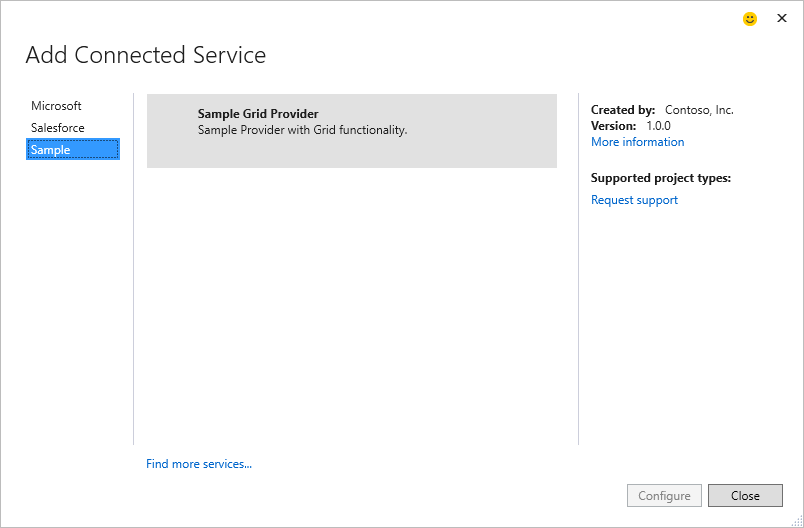
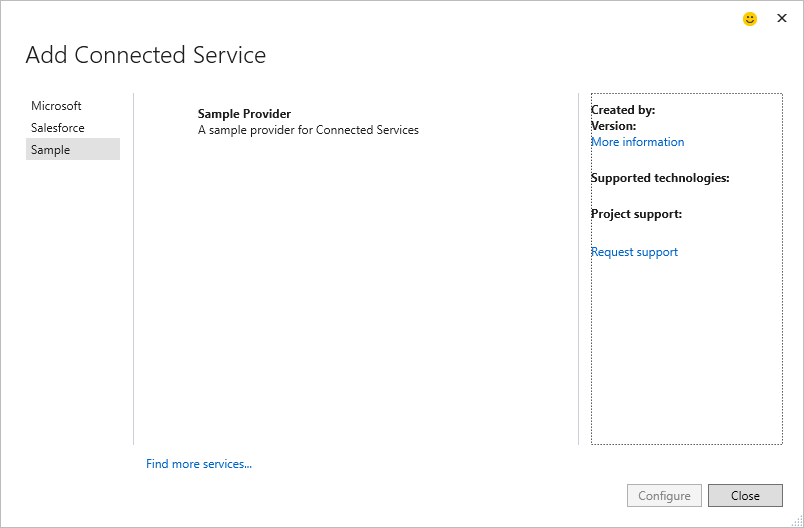
Fixed word conversion failures, updated image
Upated the povider image to refrence SinglePage instead of the old grid
example

diff --git a/SDK/articles/CreatingAConnectedServiceExtension.md b/SDK/articles/CreatingAConnectedServiceExtension.md
@@ -94,21 +94,21 @@ Add the following code
 	namespace ConnectedServiceSample
 	{
 		[ConnectedServiceProviderExport("Contoso.SampleService")]
-		internalclassProvider : ConnectedServiceProvider
+		internal class Provider : ConnectedServiceProvider
 		{
 			public Provider()
 	        {
 	            this.Category = "Sample";
-	            this.Name = "Sample Provider";
-	            this.Description = "A sample provider for Connected Services";
+	            this.Name = "Sample Connected Service";
+	            this.Description = "A sample Connected Services";
 	            this.Icon = null;
 	            this.CreatedBy = "Contoso";
-	            this.Version = newVersion(1, 0, 0);
-	            this.MoreInfoUri = newUri("https://github.com/Microsoft/ConnectedServicesSdkSamples");
+	            this.Version = new Version(1, 0, 0);
+	            this.MoreInfoUri = newUri("https://aka.ms/ConnectedServicesSDK");
 	        }
-	        publicoverrideTask<ConnectedServiceConfigurator> CreateConfiguratorAsync(ConnectedServiceProviderContext context)
+	        public override Task<ConnectedServiceConfigurator> CreateConfiguratorAsync(ConnectedServiceProviderContext context)
 	        {
-	            returnnull;
+	            return null;
 	        }
 	    }
 	}
@@ -151,7 +151,7 @@ Stop debugging, and add a new class named **Handler** to the root of your projec
 		AppliesTo = "CSharp+Web")]
 		internalclassHandler : ConnectedServiceHandler
 		{
-			publicoverrideTask<AddServiceInstanceResult> AddServiceInstanceAsync(ConnectedServiceHandlerContext context, CancellationToken ct)
+			public override Task<AddServiceInstanceResult> AddServiceInstanceAsync(ConnectedServiceHandlerContext context, CancellationToken ct)
 			{
 				AddServiceInstanceResult result = newAddServiceInstanceResult(
 					"Sample",
@@ -233,7 +233,7 @@ Replace the ViewModel class with the following code:
 	using System.Threading.Tasks;
 	namespace ConnectedServiceSample.ViewModels
 	{
-		publicclassSinglePageViewModel : ConnectedServiceSinglePage
+		public class SinglePageViewModel : ConnectedServiceSinglePage
 		{
 			public SinglePageViewModel()
 			{
@@ -242,10 +242,10 @@ Replace the ViewModel class with the following code:
 				this.Title = "Contoso Sample Provider";
 				this.Description = "Configure the Contoso Service";
 			}
-			publicoverrideTask<ConnectedServiceInstance> GetFinishedServiceInstanceAsync()
+			public override Task<ConnectedServiceInstance> GetFinishedServiceInstanceAsync()
 			{
-			    ConnectedServiceInstance instance = newConnectedServiceInstance();
-			    returnTask.FromResult(instance);
+			    ConnectedServiceInstance instance = new ConnectedServiceInstance();
+			    return Task.FromResult(instance);
 			}
 		}
 	}
@@ -285,7 +285,7 @@ In the constructor, define an event handler for the PropertyChanged event:
 
 Then, do some validation. In our case, it's pretty simple:
 
-	privatevoid SinglePageViewModel_PropertyChanged(object sender, System.ComponentModel.PropertyChangedEventArgs e)
+	private void SinglePageViewModel_PropertyChanged(object sender, System.ComponentModel.PropertyChangedEventArgs e)
 	{
 		this.IsFinishEnabled = !string.IsNullOrWhiteSpace(ServiceName);
 	}
